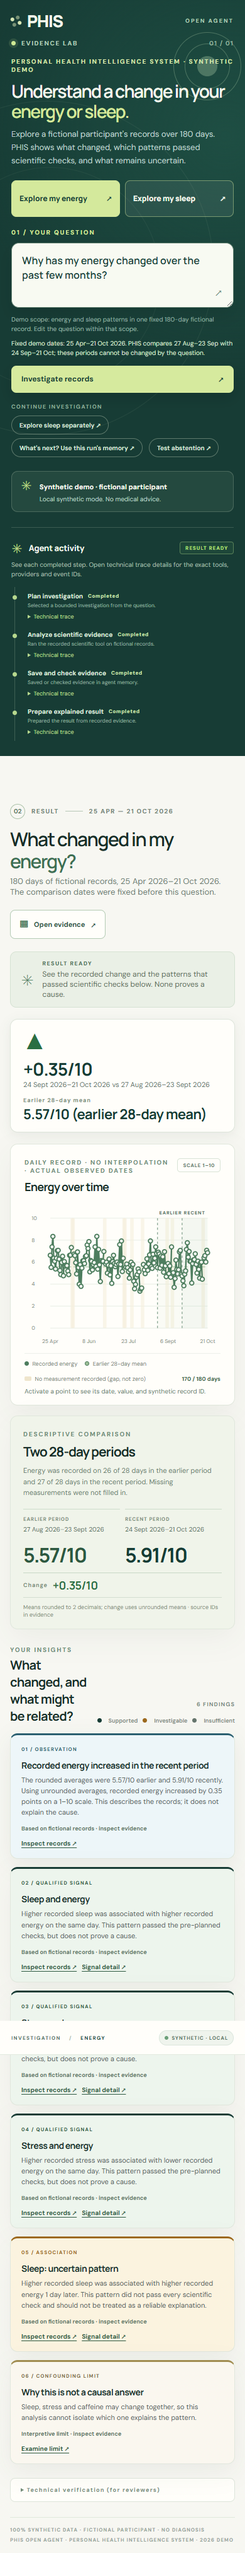
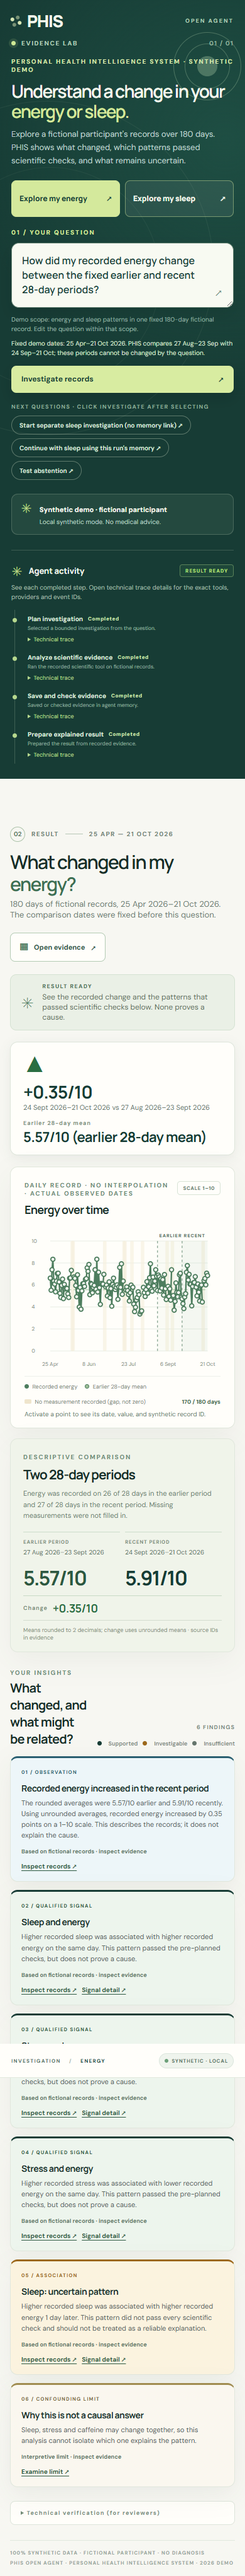
fix(ux): align fixed-window prompts and linked follow-up labels

diff --git a/frontend/index.html b/frontend/index.html
@@ -53,8 +53,8 @@
       <!-- Question form -->
       <form id="question-form" class="question-panel" novalidate>
         <div class="entry-options" aria-label="Choose a demo investigation">
-          <button type="button" class="entry-option active" data-fill="Why has my energy changed over the past few months?" aria-pressed="true">Explore my energy <span aria-hidden="true">↗</span></button>
-          <button type="button" class="entry-option" data-fill="How did my sleep change over the past few months?" aria-pressed="false">Explore my sleep <span aria-hidden="true">↗</span></button>
+          <button type="button" class="entry-option active" data-fill="How did my recorded energy change between the fixed earlier and recent 28-day periods?" aria-pressed="true">Explore my energy <span aria-hidden="true">↗</span></button>
+          <button type="button" class="entry-option" data-fill="How did my recorded sleep change between the fixed earlier and recent 28-day periods?" aria-pressed="false">Explore my sleep <span aria-hidden="true">↗</span></button>
         </div>
         <label for="question">01 / YOUR QUESTION</label>
         <div class="question-field">
@@ -65,7 +65,7 @@
             maxlength="240"
             spellcheck="true"
             aria-describedby="question-hint"
-          >Why has my energy changed over the past few months?</textarea>
+          >How did my recorded energy change between the fixed earlier and recent 28-day periods?</textarea>
           <span class="question-cursor" aria-hidden="true">↗</span>
         </div>
         <p id="question-hint" class="question-hint">
@@ -91,12 +91,12 @@
 
       <!-- Follow-up action chips (shown after PASS result) -->
       <div id="followup-actions" class="followup-actions" hidden aria-label="Follow-up actions">
-        <span class="followup-actions-label">CONTINUE INVESTIGATION</span>
-        <button type="button" class="text-chip" id="chip-sleep" data-question="How did my sleep change over the past few months?">
-          Explore sleep separately ↗
+        <span class="followup-actions-label">NEXT QUESTIONS · CLICK INVESTIGATE AFTER SELECTING</span>
+        <button type="button" class="text-chip" id="chip-sleep" data-question="How did my recorded sleep change between the fixed earlier and recent 28-day periods?">
+          Start separate sleep investigation (no memory link) ↗
         </button>
         <button type="button" class="text-chip" id="chip-next" data-question="What should we investigate next?">
-          What's next? Use this run's memory ↗
+          Continue with this run's memory ↗
         </button>
         <button type="button" class="text-chip" id="chip-abstain" data-question="Is there a clinical diagnosis here?">
           Test abstention ↗
